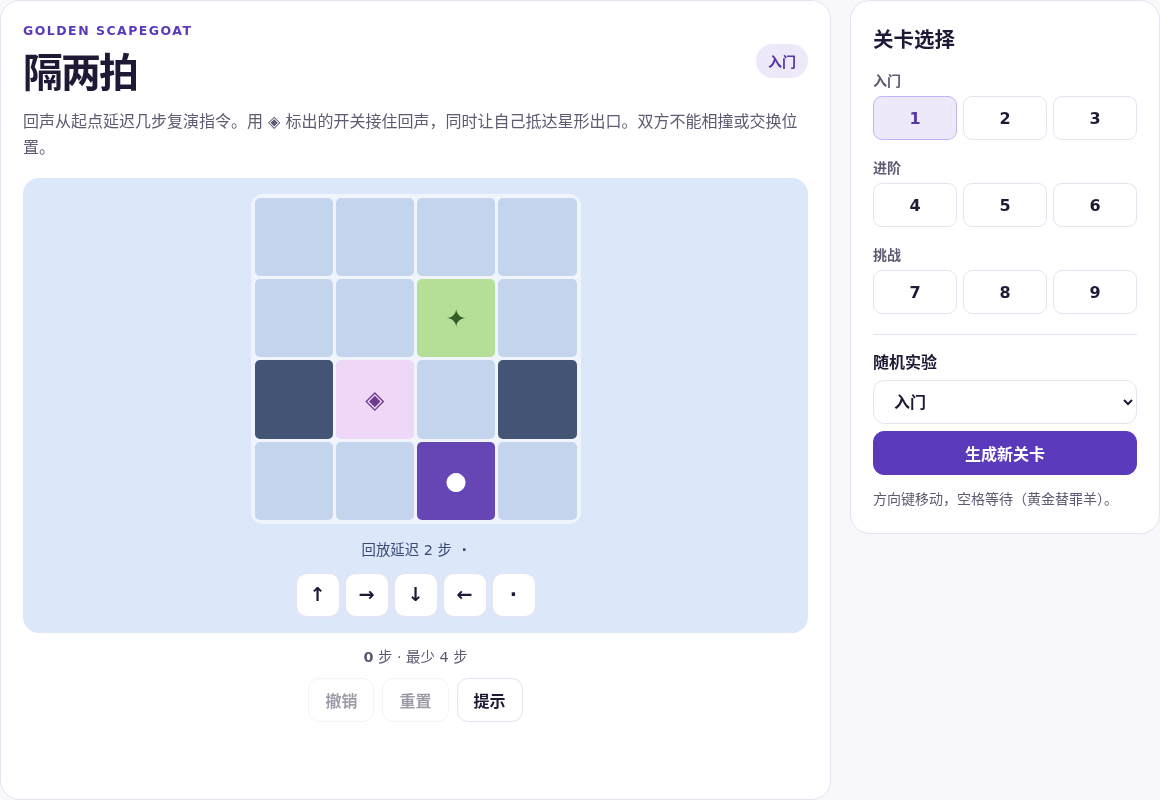
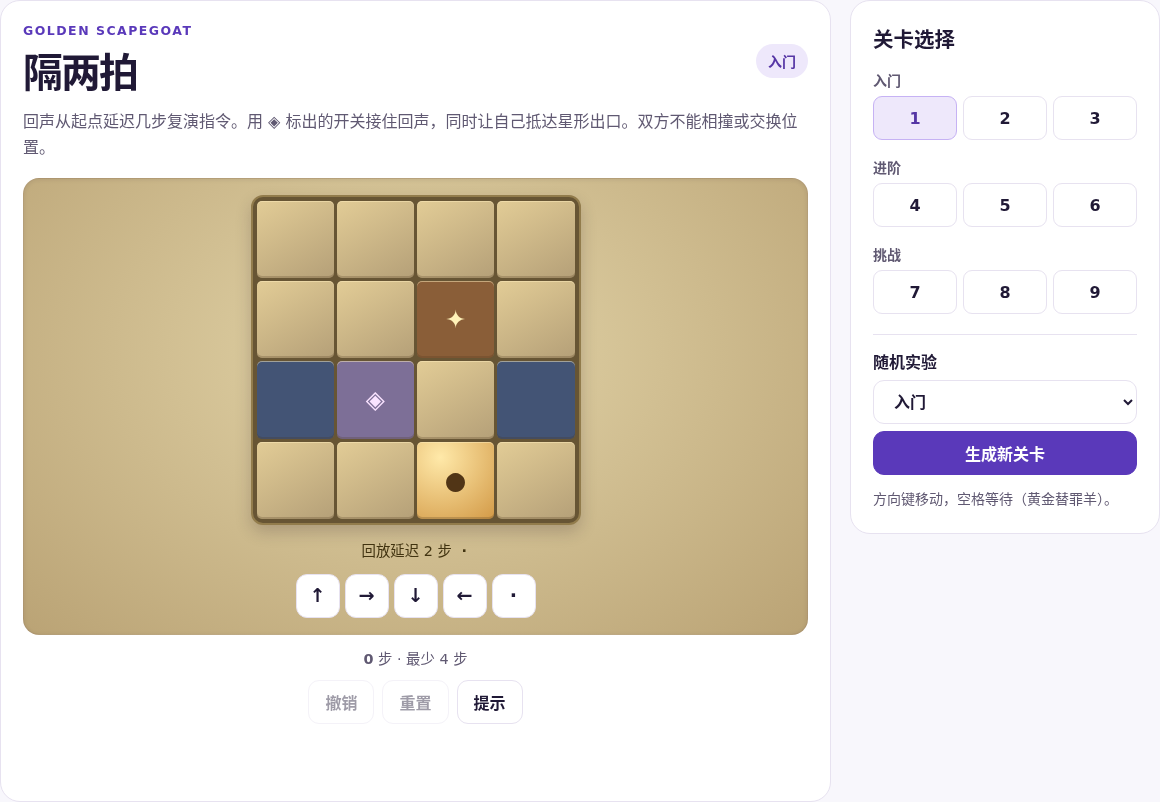
Refine puzzle materials and refresh gameplay screenshots

diff --git a/public/style.css b/public/style.css
@@ -164,3 +164,135 @@ dialog p{margin:10px 0;color:var(--muted)}
 .picture-tools{display:flex;gap:12px;align-items:center;justify-content:center}
 .picture-tools figure{width:64px;margin:0;text-align:center;font-size:.8rem;color:#5f3e67}
 .picture-tools svg{border-radius:6px}
+
+/* Material finishes share a frame while remaining distinct on each board. */
+.hero{
+  background:
+    radial-gradient(ellipse at 80% 17%,#b49bf32e,transparent 54%),
+    linear-gradient(112deg,#231c39 12%,#332651 68%,#463568);
+  border-color:#4f3d75;
+  color:#f9f4ff;
+}
+.hero h1 span{color:#dbbcff}
+.hero p{color:#e0d6ef}
+.hero .eyebrow{background:#f6e8ff14;color:#f1dbff;border-color:#f2d6ff42}
+.hero .primary{background:#e0c1ff;color:#2b1c44;border-color:#e0c1ff}
+.hero .primary:hover{background:#edd8ff}
+.hero-art::before{background-image:radial-gradient(#c7a4f3 1px,transparent 1px)}
+.orbit{border-color:#d9b5fd60}
+.art-spark{color:#e6c6ff}
+.art-tile{box-shadow:inset 0 0 0 1px #fff8,inset 0 -8px #28144d40,0 18px 34px #160d2b73}
+
+.board-area{position:relative;border:1px solid #30182e19;box-shadow:inset 0 1px 4px #21162516}
+.board-area>.board{box-shadow:0 7px 16px #25192835}
+.mirror .board-area,.mirror .card-preview{
+  background:
+    radial-gradient(ellipse at 50% 45%,#52627855,transparent 71%),
+    repeating-linear-gradient(135deg,#fff2 0 1px,transparent 1px 12px),
+    #1e2533;
+}
+.optical{background:#232b3a;border-color:#8797a8}
+.optical .cell{
+  background:linear-gradient(135deg,#394457,#283143);
+  box-shadow:inset 0 0 0 .5px #607089;
+  color:#f4c889;
+}
+.optical .wall{background:repeating-linear-gradient(-45deg,#151d2b 0 5px,#293142 5px 10px)}
+.optical .target{color:#f4ca83}
+.optical .sensor{color:#a6bbd8}
+.optical .lit{color:#ffe699;text-shadow:0 0 10px #ffb76c}
+.optical .mirror-cell:hover{background:#596a83}
+.mirror-piece{
+  background:linear-gradient(#f7ffff,#aec7d9 45%,#57728d 52%,#b0c3d4);
+  box-shadow:0 0 0 1px #dde8ee,0 3px 3px #101e2a;
+}
+.beam polyline{stroke:#ffdb88;stroke-width:.053}
+.beam circle{fill:#fff0ad}
+
+.flood .board-area,.flood .card-preview{
+  background:repeating-linear-gradient(0deg,#85420d09 0 1px,transparent 1px 5px),#f2dec3;
+}
+.pigment{background:#f8e9d4;border:1px solid #b49468}
+.pigment-color,.swatch{
+  background-image:radial-gradient(ellipse at 20% 10%,#fff8,transparent 66%),linear-gradient(155deg,transparent,#52242e32);
+  box-shadow:inset 0 1px #fff9,inset 0 -2px #52242e25;
+}
+.pigment .filled{box-shadow:inset 0 0 0 3px #fff7e6,inset 0 0 0 4px #71443675}
+
+.crate .card-preview,.crate .board-area{
+  background:
+    repeating-linear-gradient(45deg,#c3935919 0 2px,transparent 2px 12px),
+    radial-gradient(ellipse,#dcc397,#b59066);
+}
+.crate .walk-board{background:#6e5036;border:2px solid #765338}
+.crate .walk-board .cell{
+  background-color:#d8bb90;
+  background-image:linear-gradient(145deg,#fff3,#6a46201d);
+}
+.crate .walk-board .wall{
+  background:linear-gradient(160deg,#725039,#463329);
+  box-shadow:inset 0 1px #fcdeac50,inset 0 -3px #21180855;
+}
+.crate .walk-board .crate-piece{
+  color:#4f341e;
+  background:
+    linear-gradient(43deg,transparent 39%,#96724c 41% 54%,transparent 56%),
+    repeating-linear-gradient(90deg,#d19a51 0 9px,#b27a3c 9px 11px);
+  box-shadow:inset 0 0 0 2px #6d4a2f,inset 0 0 0 5px #e2b571;
+}
+.crate .walk-board .walker{background:#4e416d}
+.crate .walk-board .exit{background:#b7d1a8;color:#214a31}
+
+.voxel .card-preview,.voxel .board-area{
+  background:
+    linear-gradient(60deg,#c6a9d228,transparent 57%),
+    radial-gradient(ellipse,#f3e8f5,#e7dce9);
+}
+.isometric .occupied .top{fill:#bb9aed;stroke:#664884}
+.isometric .occupied .left{fill:#9774c8;stroke:#664884}
+.isometric .occupied .right{fill:#654c92;stroke:#664884}
+.voxel-cell.solid{background:linear-gradient(140deg,#b48fda,#6d4a9a);box-shadow:inset 1px 1px #ffef,inset -4px -4px #43245960}
+.voxel-cell:not(.solid){background:#f6edf7}
+
+.mosaic .card-preview,.mosaic .board-area{
+  background:
+    radial-gradient(ellipse at 48% 48%,#fff2,transparent 65%),
+    linear-gradient(130deg,#efd6e6,#dfb2cb);
+}
+.picture{
+  background:#8e5766;
+  border:2px solid #d4a388;
+  box-shadow:inset 0 0 0 2px #ffdac28c,0 7px 16px #5320443d;
+}
+.picture .cell{box-shadow:inset 0 0 0 1px #e9b2aa}
+.picture .cell::after{
+  content:"";
+  position:absolute;
+  inset:0;
+  border-radius:inherit;
+  background:linear-gradient(145deg,#fff3,transparent 38%,#fff1 72%,#120a2733);
+  pointer-events:none;
+}
+
+.echo .card-preview,.echo .board-area{
+  background:radial-gradient(ellipse at 50% 38%,#e4d6aa,#baa375);
+}
+.echo .walk-board{background:#675534;border:2px solid #927c4c}
+.echo .walk-board .cell{
+  background:linear-gradient(150deg,#e2cc96,#b5a078);
+  box-shadow:inset 0 1px #fdecbd82,inset 0 -2px #4a36183b;
+}
+.echo .walk-board .wall{background:linear-gradient(150deg,#7a6a4e,#564831)}
+.echo .walk-board .walker{color:#513516;background:radial-gradient(circle at 30% 20%,#ffe9a9,#d39a47)}
+.echo .walk-board .echo-piece{background:#55547c;color:#f1e6f9}
+.echo .walk-board .plate{background:#7d6f97;color:#f9e3ff}
+.echo .walk-board .exit{background:#8a5e38;color:#fff2b8}
+.echo .timeline{color:#423411}
+
+.relay .card-preview,.relay .board-area{background:radial-gradient(ellipse,#cadfce,#a9c1b7)}
+.switches{border:2px solid #7c9d90}
+.switches .cell{background:linear-gradient(150deg,#386356,#214c41)}
+.switches .cell.on{
+  background:radial-gradient(ellipse at 45% 37%,#f0ffd6,#ace39b 75%);
+  box-shadow:inset 0 0 0 1px #deefc9,0 0 9px #b9f4af85;
+}

diff --git a/public/sw.js b/public/sw.js
@@ -1,5 +1,5 @@
 const prefix = `puzzle-lab:${self.registration.scope}:`;
-const cacheName = prefix + 'v2';
+const cacheName = prefix + 'v3';
 const files = [
   './', './index.html', './style.css', './app.js', './campaign.js', './views.js', './extra-views.js', './storage.js',
   './games/common.js', './games/mirror.js', './games/flood.js', './games/switch.js',

diff --git a/README.md b/README.md
@@ -2,7 +2,7 @@
 
 **[在线开玩](https://mengyanggao.github.io/puzzle-lab/)** · 用电脑、平板或手机的浏览器打开即可。
 
-Puzzle Lab 是一个纯静态、中文优先的原创休闲益智合集。七个小游戏，各有九道固定关卡和三个难度的随机模式。所有固定关卡随时可选。本地记录固定关卡最佳步数、各关进度和设置。
+Puzzle Lab 是一个非官方小游戏复刻项目，用来学习原作的解谜设计，也向它们致敬。打开网页就能玩。七个小游戏各有九道固定关卡、三档随机题，进度保存在浏览器。
 
 | 游戏 | Puzzle Lab 玩法 | 参考来源 |
 | --- | --- | --- |
